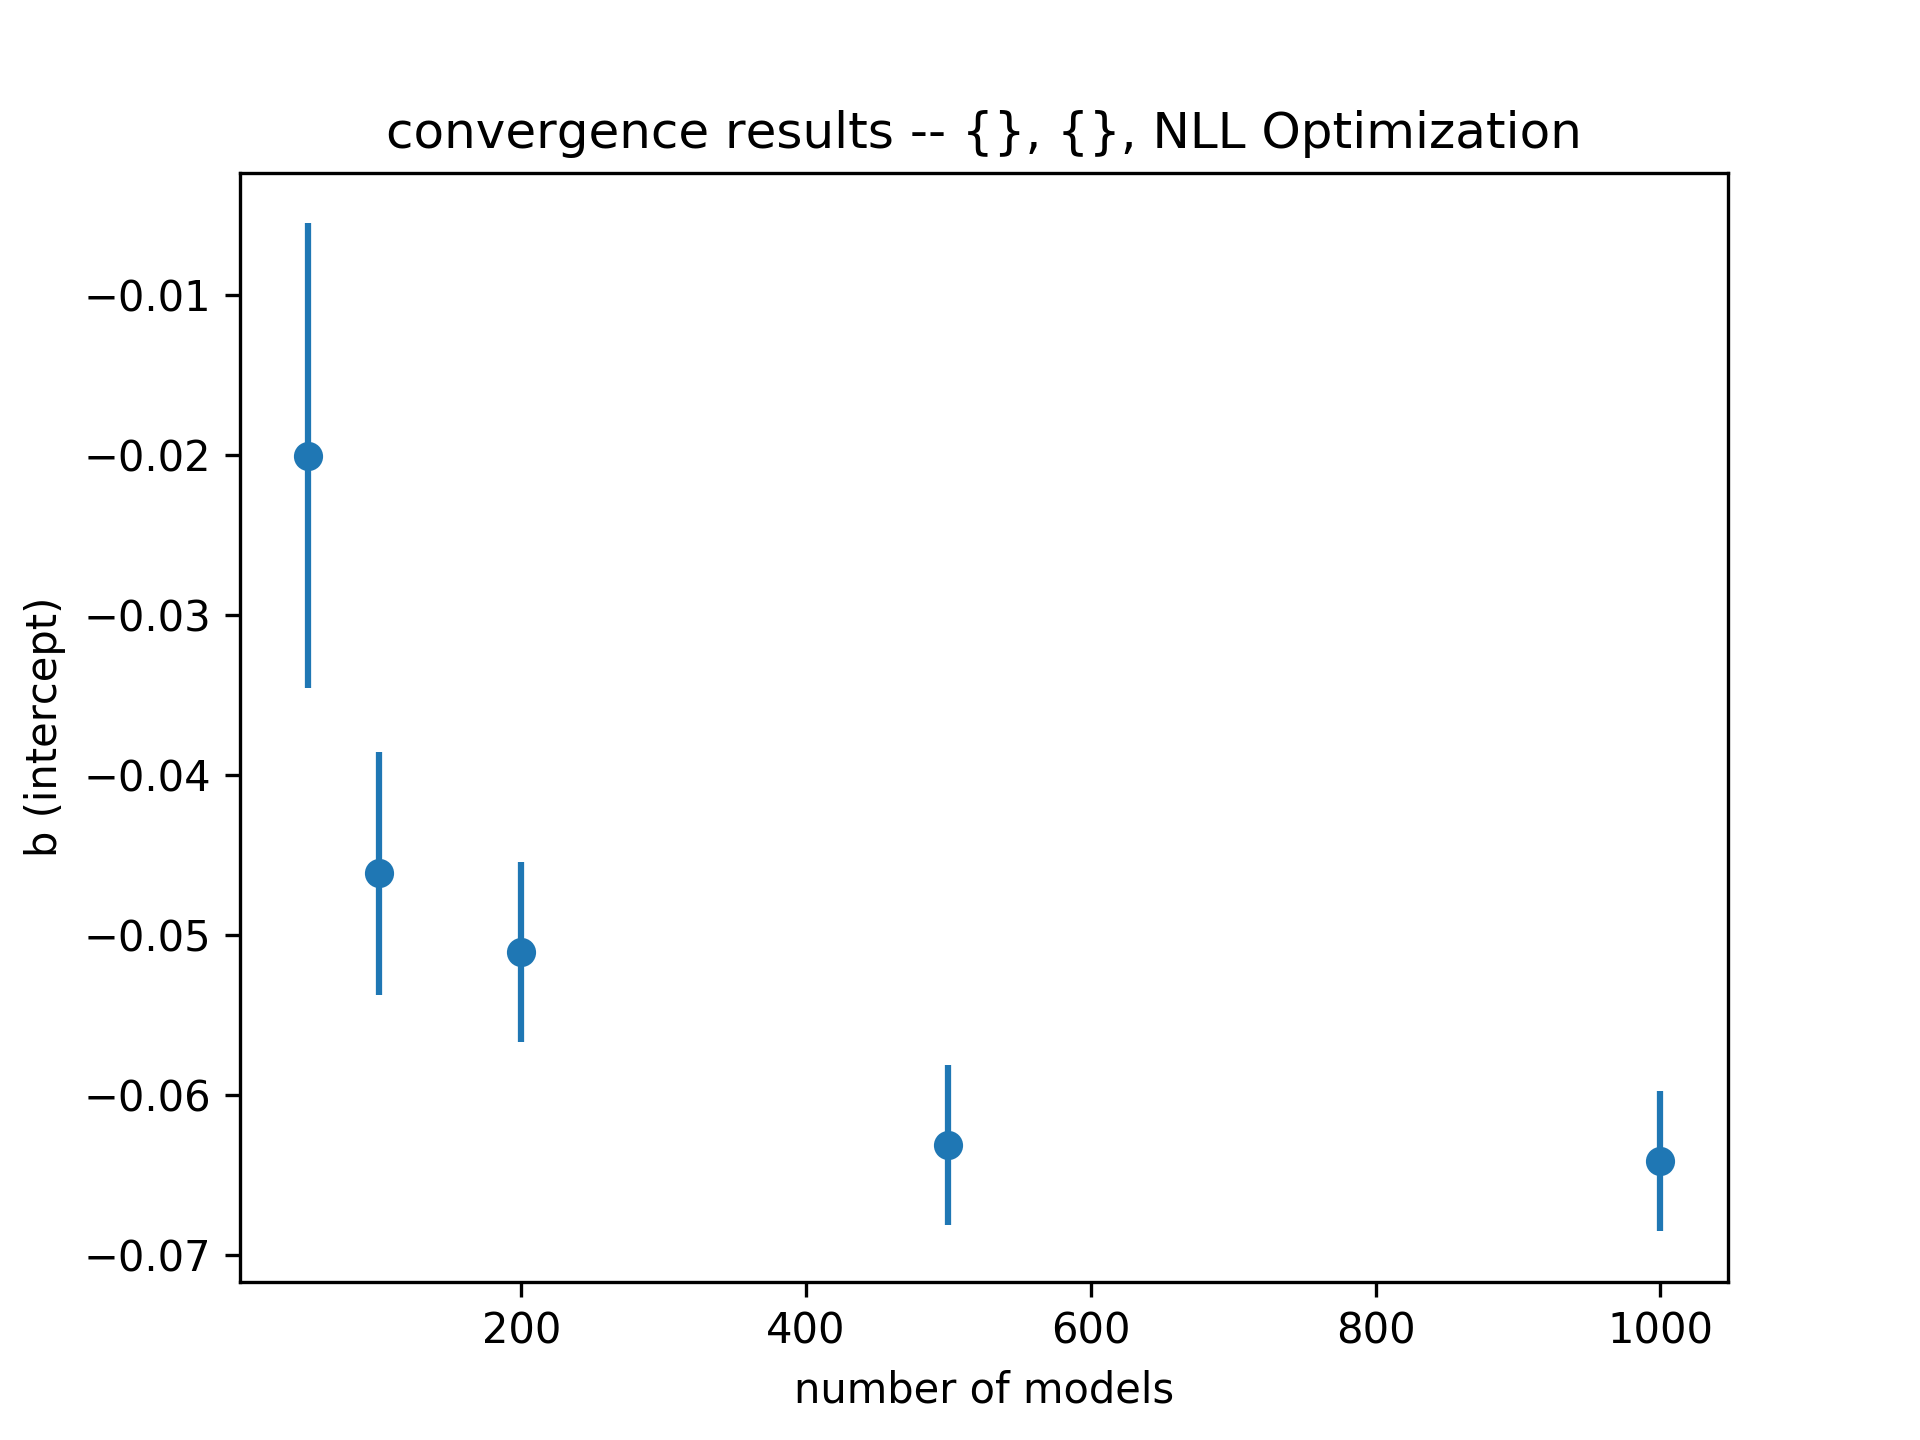
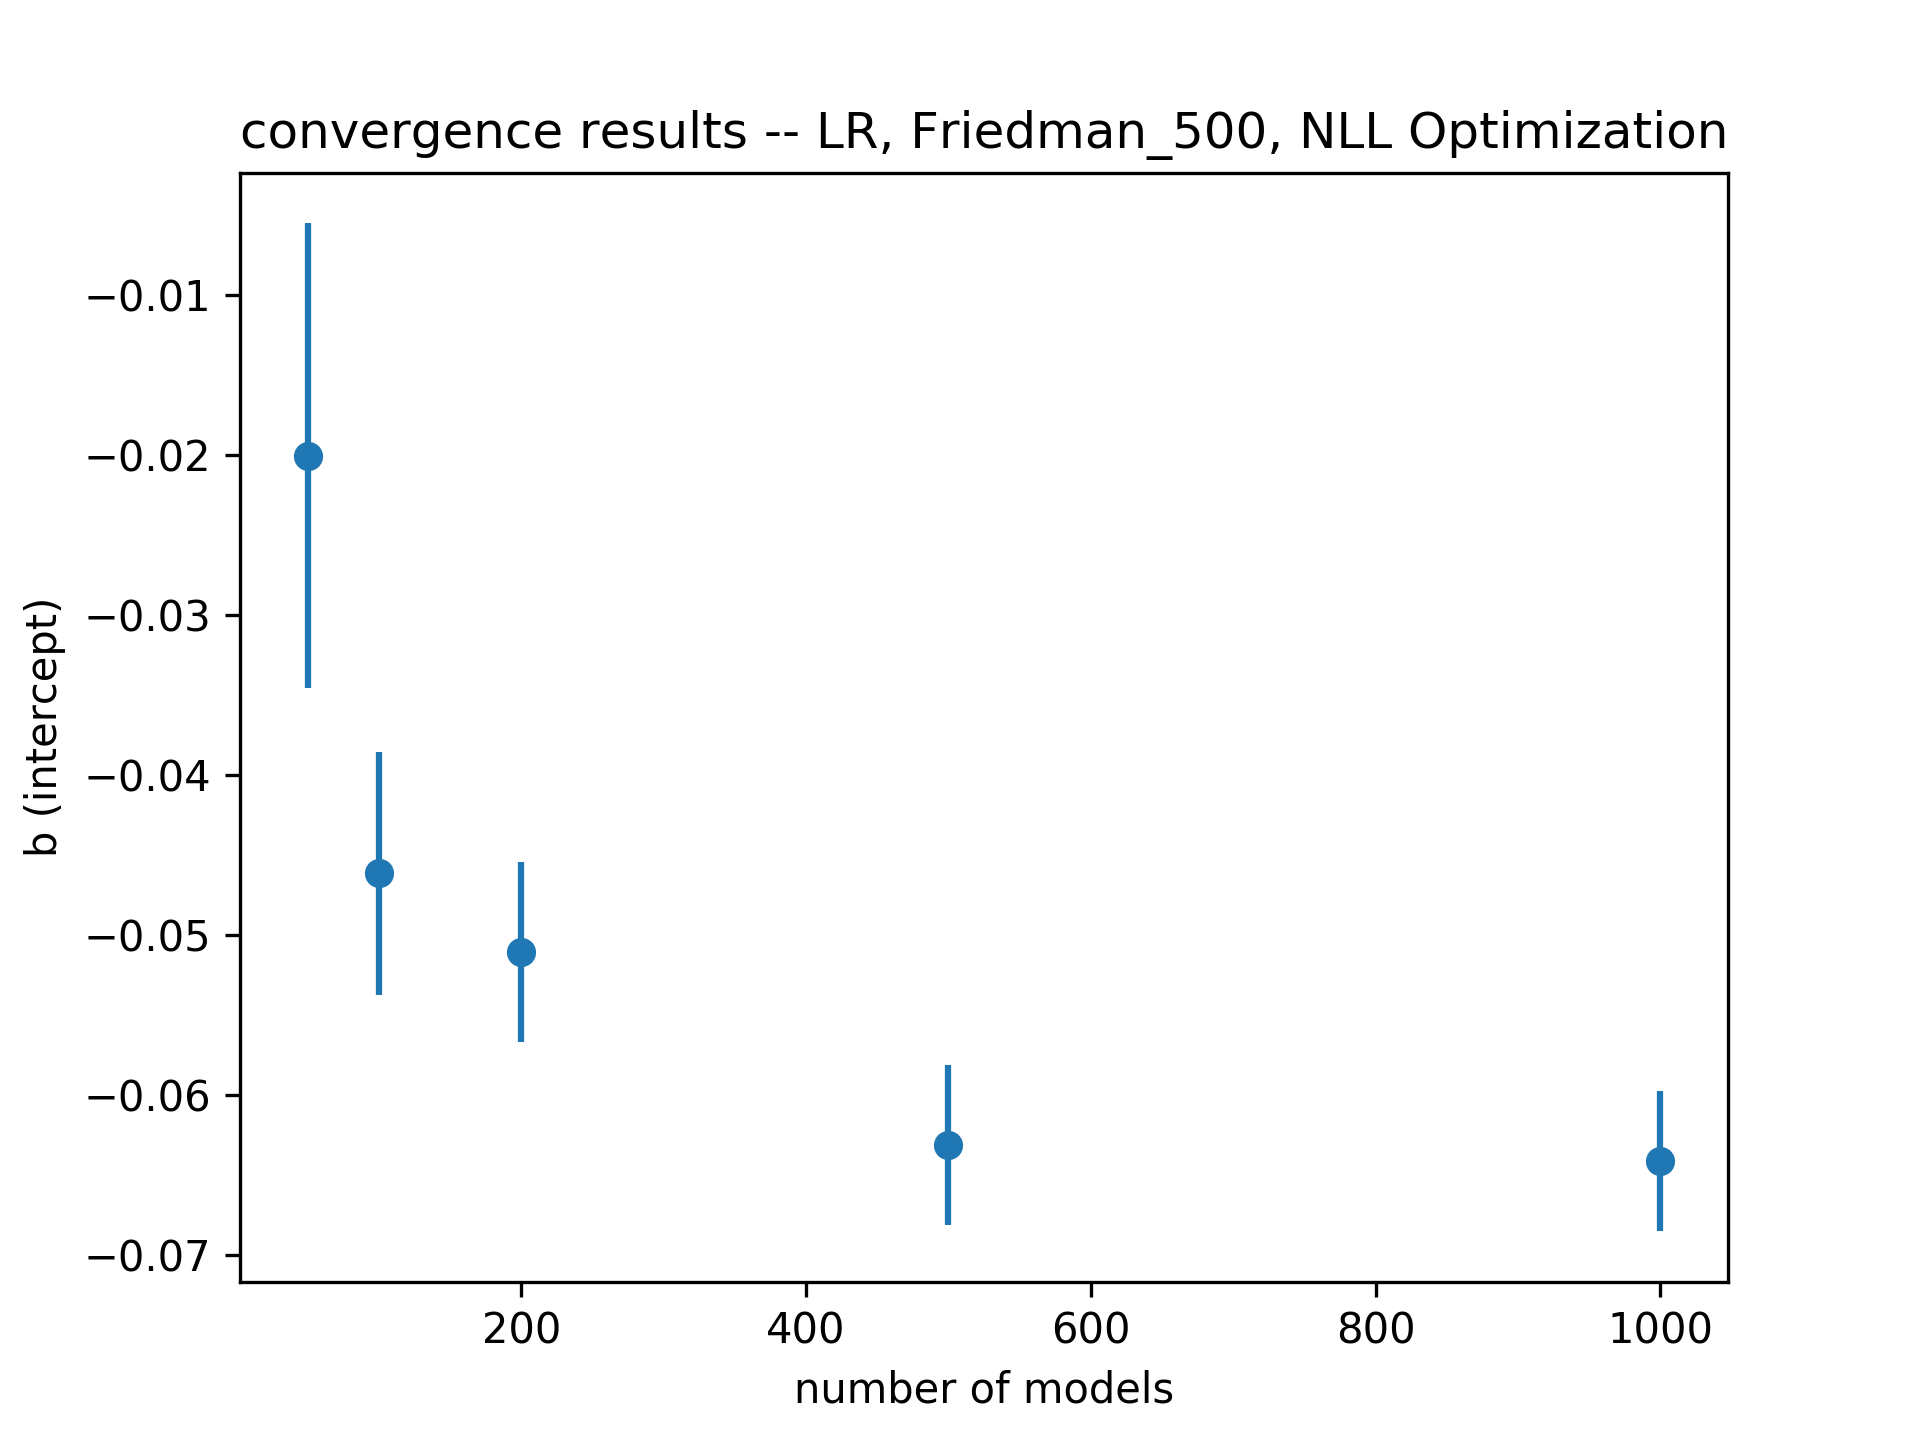
updating convergence plot titles and adding some gpr scripts

Changed region(s): [[0.125, 0.0625, 0.9062, 0.125]]

diff --git a/generate_synthetic_plots.py b/generate_synthetic_plots.py
@@ -6,12 +6,12 @@ from package import TestData as td
 
 # Specify what models to run
 # Options: "RF", "GPR", "BT", "LR"
-models = ["RF"]
+models = ["GPR"]
 
 for model in models:
     print("STARTING {} Friedman 500".format(model))
     # Path to save files
-    path = 'Supplemental_Info/Friedman_500/50-Fold/{}'.format(model)
+    path = 'Supplemental_Info/Friedman_500/5-Fold/{}'.format(model)
     #path = 'plots/'
 
     # Load data
@@ -42,10 +42,10 @@ for model in models:
     #b = b / stdev
 
     # Save np arrays of unscaled and scaled CV data
-    np.save('data_for_paper_plots/Friedman_500/{}_50fold/CV/a'.format(model), np.asarray([a]))
-    np.save('data_for_paper_plots/Friedman_500/{}_50fold/CV/b'.format(model), np.asarray([b]))
-    np.save('data_for_paper_plots/Friedman_500/{}_50fold/CV/CV_residuals'.format(model), CV_residuals)
-    np.save('data_for_paper_plots/Friedman_500/{}_50fold/CV/CV_model_errors'.format(model), CV_model_errors)
+    np.save('data_for_paper_plots/Friedman_500/{}/CV/a'.format(model), np.asarray([a]))
+    np.save('data_for_paper_plots/Friedman_500/{}/CV/b'.format(model), np.asarray([b]))
+    np.save('data_for_paper_plots/Friedman_500/{}/CV/CV_residuals'.format(model), CV_residuals)
+    np.save('data_for_paper_plots/Friedman_500/{}/CV/CV_model_errors'.format(model), CV_model_errors)
 
 
     # Make scaled and unscaled CV plots
@@ -82,10 +82,10 @@ for model in models:
     Test_model_errors = Test_model_errors / stdev
 
     # Save np arrays of unscaled and scaled Test data
-    np.save('data_for_paper_plots/Friedman_500/{}_50fold/Test/a'.format(model), np.asarray([a]))
-    np.save('data_for_paper_plots/Friedman_500/{}_50fold/Test/b'.format(model), np.asarray([b]))
-    np.save('data_for_paper_plots/Friedman_500/{}_50fold/Test/Test_residuals'.format(model), Test_residuals)
-    np.save('data_for_paper_plots/Friedman_500/{}_50fold/Test/Test_model_errors'.format(model), Test_model_errors)
+    np.save('data_for_paper_plots/Friedman_500/{}/Test/a'.format(model), np.asarray([a]))
+    np.save('data_for_paper_plots/Friedman_500/{}/Test/b'.format(model), np.asarray([b]))
+    np.save('data_for_paper_plots/Friedman_500/{}/Test/Test_residuals'.format(model), Test_residuals)
+    np.save('data_for_paper_plots/Friedman_500/{}/Test/Test_model_errors'.format(model), Test_model_errors)
 
     # Make scaled and unscaled test data plots
     MP.make_rve(Test_residuals, Test_model_errors, "{}, Friedman 500, Unscaled, Test Set".format(model), save=True,

diff --git a/get_convergence_data_gpr_perovskite.py b/get_convergence_data_gpr_perovskite.py
@@ -1,0 +1,40 @@
+from package import ConvergenceData as cd
+from package import MakePlot as mp
+import numpy as np
+
+
+datasets = ["Diffusion", "Friedman_500", "Perovskite"]
+models = ["LR", "RF"]
+
+for dataset in datasets:
+    for model in models:
+        print("Starting convergence test runs for {}, {}".format(dataset, model))
+
+        # Load data
+        if dataset == "Friedman_500":
+            X_train = np.load('friedman_500_data/training_x_values.npy')
+            y_train = np.load('friedman_500_data/training_y_values.npy')
+        elif dataset == "Diffusion":
+            X_train = np.load('diffusion_data/all_x_values.npy')
+            y_train = np.load('diffusion_data/all_y_values.npy')
+        elif dataset == "Perovskite":
+            X_train = np.load('perovskite_data/all_x_values.npy')
+            y_train = np.load('perovskite_data/all_y_values.npy')
+        else:
+            print("No valid dataset provided. '{}' is not an option for dataset choice.".format(dataset))
+            break
+
+        CD = cd.ConvergenceData()
+
+        a_nll, b_nll = CD.nll([50,100,200,500,1000], model, X_train, y_train, num_averaged=10)
+
+        np.save('data_for_paper_plots/{}/{}/Convergence/a_nll.npy'.format(dataset, model), np.asarray(a_nll))
+        np.save('data_for_paper_plots/{}/{}/Convergence/b_nll.npy'.format(dataset, model), np.asarray(b_nll))
+
+        # Create and save plots
+        MP = mp.MakePlot()
+
+        MP.make_convergence_plot(a_nll, "{}, {}, NLL Optimization".format(model, dataset), "a (slope)", save=True,
+                                 file_name='Supplemental_Info/{}/5-fold/{}/Convergence_Plots/a_nll'.format(dataset, model))
+        MP.make_convergence_plot(b_nll, "{}, {}, NLL Optimization", "b (intercept)".format(model, dataset), save=True,
+                                 file_name='Supplemental_Info/{}/5-fold/{}/Convergence_Plots/b_nll'.format(dataset, model))

diff --git a/get_convergence_data_gpr_friedman.py b/get_convergence_data_gpr_friedman.py
@@ -1,0 +1,40 @@
+from package import ConvergenceData as cd
+from package import MakePlot as mp
+import numpy as np
+
+
+datasets = ["Friedman_500"]
+models = ["GPR"]
+
+for dataset in datasets:
+    for model in models:
+        print("Starting convergence test runs for {}, {}".format(dataset, model))
+
+        # Load data
+        if dataset == "Friedman_500":
+            X_train = np.load('friedman_500_data/training_x_values.npy')
+            y_train = np.load('friedman_500_data/training_y_values.npy')
+        elif dataset == "Diffusion":
+            X_train = np.load('diffusion_data/all_x_values.npy')
+            y_train = np.load('diffusion_data/all_y_values.npy')
+        elif dataset == "Perovskite":
+            X_train = np.load('perovskite_data/all_x_values.npy')
+            y_train = np.load('perovskite_data/all_y_values.npy')
+        else:
+            print("No valid dataset provided. '{}' is not an option for dataset choice.".format(dataset))
+            break
+
+        CD = cd.ConvergenceData()
+
+        a_nll, b_nll = CD.nll([50,100,200,500,1000], model, X_train, y_train, num_averaged=10)
+
+        np.save('data_for_paper_plots/{}/{}/Convergence/a_nll.npy'.format(dataset, model), np.asarray(a_nll))
+        np.save('data_for_paper_plots/{}/{}/Convergence/b_nll.npy'.format(dataset, model), np.asarray(b_nll))
+
+        # Create and save plots
+        MP = mp.MakePlot()
+
+        MP.make_convergence_plot(a_nll, "{}, {}, NLL Optimization".format(model, dataset), "a (slope)", save=True,
+                                 file_name='Supplemental_Info/{}/5-fold/{}/Convergence_Plots/a_nll'.format(dataset, model))
+        MP.make_convergence_plot(b_nll, "{}, {}, NLL Optimization", "b (intercept)".format(model, dataset), save=True,
+                                 file_name='Supplemental_Info/{}/5-fold/{}/Convergence_Plots/b_nll'.format(dataset, model))

diff --git a/get_convergence_data_gpr_diffusion.py b/get_convergence_data_gpr_diffusion.py
@@ -1,0 +1,40 @@
+from package import ConvergenceData as cd
+from package import MakePlot as mp
+import numpy as np
+
+
+datasets = ["Diffusion"]
+models = ["GPR"]
+
+for dataset in datasets:
+    for model in models:
+        print("Starting convergence test runs for {}, {}".format(dataset, model))
+
+        # Load data
+        if dataset == "Friedman_500":
+            X_train = np.load('friedman_500_data/training_x_values.npy')
+            y_train = np.load('friedman_500_data/training_y_values.npy')
+        elif dataset == "Diffusion":
+            X_train = np.load('diffusion_data/all_x_values.npy')
+            y_train = np.load('diffusion_data/all_y_values.npy')
+        elif dataset == "Perovskite":
+            X_train = np.load('perovskite_data/all_x_values.npy')
+            y_train = np.load('perovskite_data/all_y_values.npy')
+        else:
+            print("No valid dataset provided. '{}' is not an option for dataset choice.".format(dataset))
+            break
+
+        CD = cd.ConvergenceData()
+
+        a_nll, b_nll = CD.nll([50,100,200,500,1000], model, X_train, y_train, num_averaged=10)
+
+        np.save('data_for_paper_plots/{}/{}/Convergence/a_nll.npy'.format(dataset, model), np.asarray(a_nll))
+        np.save('data_for_paper_plots/{}/{}/Convergence/b_nll.npy'.format(dataset, model), np.asarray(b_nll))
+
+        # Create and save plots
+        MP = mp.MakePlot()
+
+        MP.make_convergence_plot(a_nll, "{}, {}, NLL Optimization".format(model, dataset), "a (slope)", save=True,
+                                 file_name='Supplemental_Info/{}/5-fold/{}/Convergence_Plots/a_nll'.format(dataset, model))
+        MP.make_convergence_plot(b_nll, "{}, {}, NLL Optimization", "b (intercept)".format(model, dataset), save=True,
+                                 file_name='Supplemental_Info/{}/5-fold/{}/Convergence_Plots/b_nll'.format(dataset, model))
